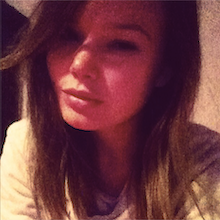
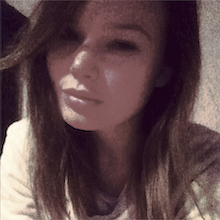
played with ruxi

diff --git a/FiboImage/ViewController.m b/FiboImage/ViewController.m
@@ -52,14 +52,15 @@ CGFloat lerp(CGFloat a, CGFloat b, CGFloat p) {
                 int index = (bytesPerRow * y) + x * bytesPerPixel;
                 rgbaForIndex(index)
                 
-                int step = 3;
+                int step = 2;
 
                 int rightIndex = idx((x + step) % width, y);
                 int leftIndex = idx((x + width - step) % width, y);
 
                 
-                redForIndex(index) = redForIndexInContex(rightIndex, buffer);
-                blueForIndex(index) = blueForIndexInContex(leftIndex, buffer);
+                redForIndex(index) = redForIndexInContex(idx((x + step) % width, y), buffer);
+                blueForIndex(index) = blueForIndexInContex(idx((x + step + 1) % width, y), buffer);
+                greenForIndex(index) = greenForIndexInContex(idx((x + step + 2) % width, y), buffer);
             }
         }
         
